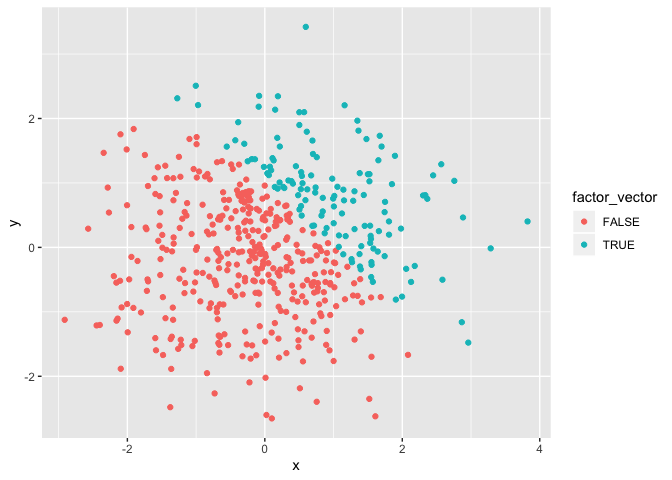
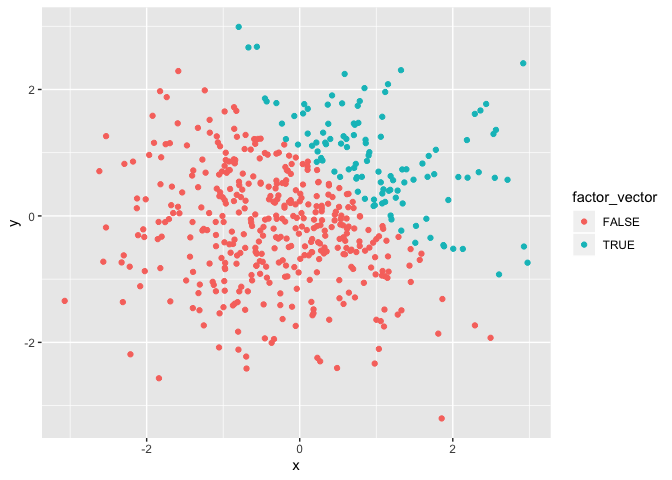
Final changes

diff --git a/p8105_hw1_ob2305.md b/p8105_hw1_ob2305.md
@@ -17,13 +17,13 @@ my_df = tibble(
 mean(pull(my_df, vec_numeric))
 ```
 
-    ## [1] 0.3313269
+    ## [1] -0.04593056
 
 ``` r
 mean(pull(my_df, vec_logical))
 ```
 
-    ## [1] 0.625
+    ## [1] 0.25
 
 ``` r
 mean(pull(my_df, vec_char))
@@ -53,7 +53,7 @@ l = pull(my_df, vec_logical)
 as.numeric(l)
 ```
 
-    ## [1] 0 0 1 1 0 1 1 1
+    ## [1] 0 1 1 0 0 0 0 0
 
 ``` r
 # character vector
@@ -66,12 +66,18 @@ as.numeric(c)
     ## [1] NA NA NA NA NA NA NA NA
 
 ``` r
+# You cannot apply as.numeric function to a character vector. This explains why you cannot take a mean of words. 
+
 # factor vector
 f = pull(my_df, vec_factor)
 as.numeric(f)
 ```
 
     ## [1] 3 2 1 3 3 2 2 1
+
+``` r
+# Factor vector has 3 levels and thus can be expressed as a number. 
+```
 
 ## Second code chunk
 
@@ -122,11 +128,11 @@ x_sd = sd(pull(plot_df, x))
 lv = pull(plot_df, logic_vector)
 ```
 
-My data frame has 500 rows, 5 columns. The mean of x is equal to 0.027,
-median = 0.001 and standard deviation = 1.088. The proportion of cases
-for which (x+y) \> 1 is equal to 131.
+My data frame has 500 rows, 5 columns. The mean of x is equal to -0.054,
+median = -0.063 and standard deviation = 1.084. The proportion of cases
+for which (x+y) \> 1 is equal to 112.
 
-Here are the scatter plot
+Here are the scatter plots
 
 ``` r
 #  scatter plot of x and y
